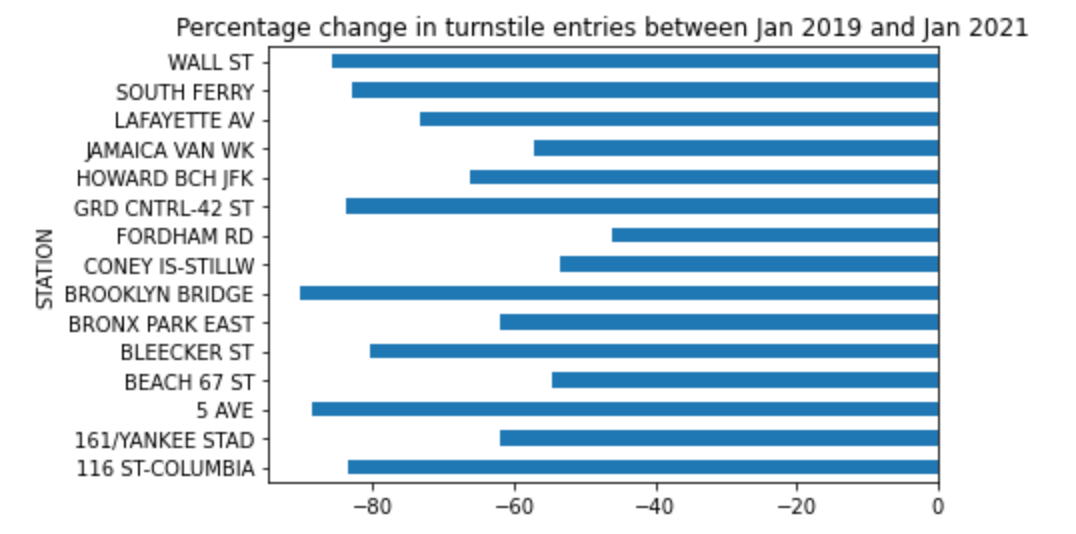
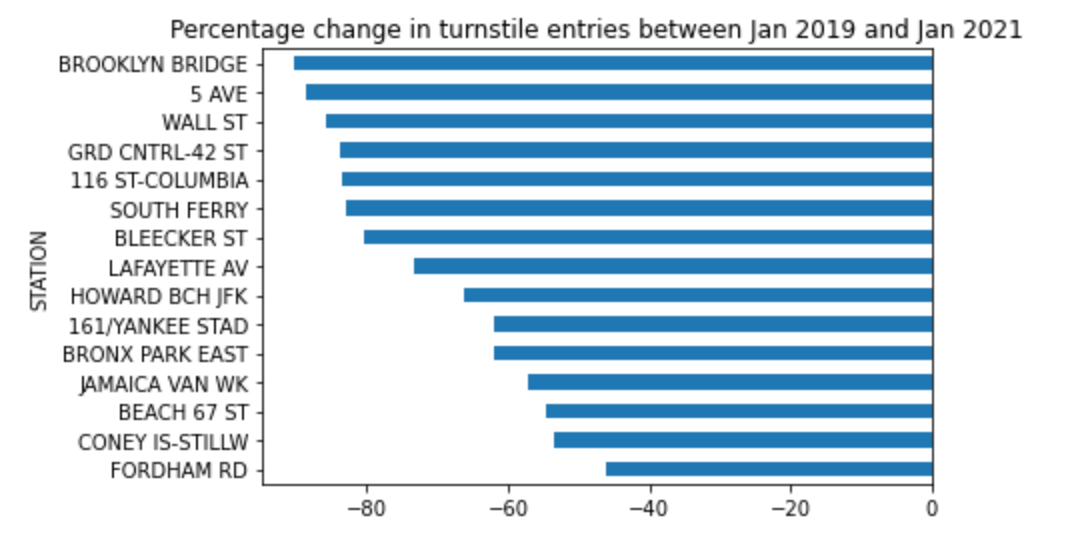
Update MVP text and diagram

diff --git a/will_bell_mvp.md b/will_bell_mvp.md
@@ -1,14 +1,15 @@
-#EDA Project MVP
+# EDA Project MVP
 
-##Crazy Donuts' pre-negotiation NYC subway station footfall analysis
+## Crazy Donuts' pre-negotiation NYC subway station footfall analysis
 
 The goal of this project is to equip Crazy Donuts with MTA data on how footfall outside their concession premises in NYC subway stations has changed as a result of the Coronavirus Pandemic.
 
 ![](mvp1.png)
 
-The figure depicts the percentage change in daily turnstile entries between January 2019 and January 2021 for subway stations which house Crazy Donuts concessions.
+The figure depicts the percentage change in daily turnstile entries between January 2019 and January 2021 for NYC subway stations which house Crazy Donuts concessions. The percentage number here is the difference between the two months expressed as a percentage of the 2019 totals (i.e. a 100% reduction would mean zero passenger entries in Jan 2021).
 
-It shows a significant reduction in passenger traffic at all stations. It also shows the amount of reduction differs according to station, with the least affected relevant station, Fordham Road, seeing roughly half the reduction of the most affected, Brooklyn Bridge. 
+The figure shows a significant reduction in passenger traffic at all stations. The most affected of Crazy Donuts' stations, Brooklyn Bridge, saw its turnstile entries down by 90%.
+
+It also shows the percent reduction differs significantly according to station. The least affected relevant station, Fordham Road, saw a 46% cut in passenger entries. So Fordham Road kept more than half its passengers, while Brooklyn Bridge kept only 10%.
 
 It will be interesting to see how these results are affected by including data from other months apart from January, narrowing the time-window down to 'Donut Time' (i.e. the morning commute), and including exits as well as entries. 
-
